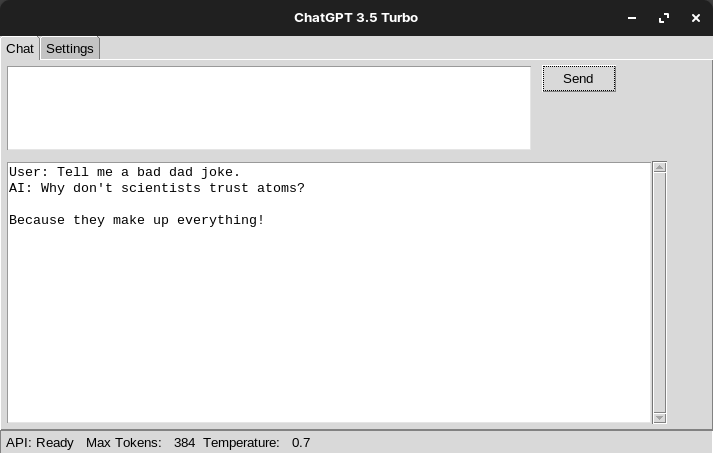
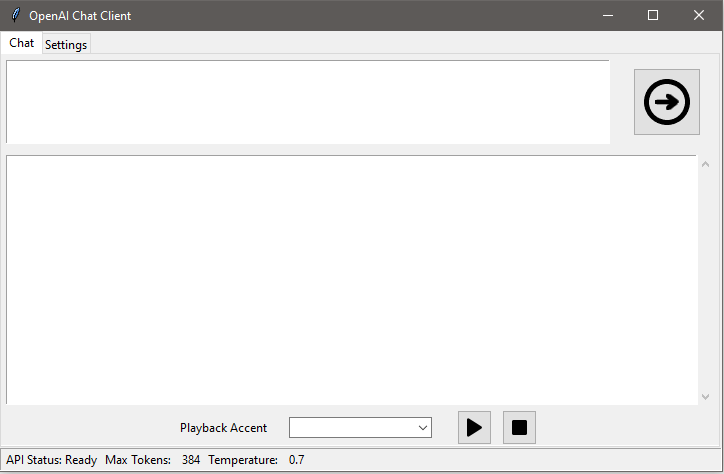
Updated buttons

Changed region(s): [[0.0, 0.0, 1.0, 1.0]]

diff --git a/script/chat.py b/script/chat.py
@@ -21,6 +21,7 @@ from tkinter import ttk
 import openai
 import gtts
 import pygame
+from PIL import Image, ImageTk
 from typing import List
 from gtts import gTTS
 
@@ -129,20 +130,18 @@ def a_select(event):
         language = "zh-TW"    
 
 # Create the main window
-
 window = tk.Tk()
 window.title("OpenAI Chat Client")
-#window.geometry("680x924")
-
 notebook = ttk.Notebook(window)
+
+
 tab1 = ttk.Frame(notebook)
 notebook.add(tab1, text=" Chat ")
-
-
 input_frame = ttk.Frame(tab1)
 input_frame.pack(side=tk.TOP, anchor="nw", pady=5)
+
 # Create a Text widget for user input
-input_text = tk.Text(input_frame, height=5, width=65)
+input_text = tk.Text(input_frame, height=5, width=75)
 input_text.pack(side=tk.LEFT, padx=5, pady=0)
 
 language="en"
@@ -155,13 +154,20 @@ accent_dd['values'] = ("English","Spanish","French","German","Korean","Japanese"
 accent_dd.bind("<<ComboboxSelected>>", a_select)
 accent_dd.pack(side=tk.LEFT, padx=20, pady=5)
 
-# Create a button
-button = ttk.Button(input_frame, text="Send", command=on_button_click)
-button.pack(side=tk.TOP, padx=5)
-trans = ttk.Button(input_frame, text="Play", command=playback_translation)
-trans.pack(side=tk.BOTTOM, padx=5)
-trans_stop = ttk.Button(input_frame, text="Stop", command=stop_playback)
-trans_stop.pack(side=tk.BOTTOM, padx=5)
+# Send, Play, Stop Buttons
+#ICONS
+submit_path = Image.open("../images/submit.png")
+submit_icon = ImageTk.PhotoImage(submit_path)
+play_path = Image.open("../images/play.png")
+play_icon = ImageTk.PhotoImage(play_path)
+stop_path = Image.open("../images/stop.png")
+stop_icon = ImageTk.PhotoImage(stop_path)
+button = ttk.Button(input_frame, image=submit_icon, command=on_button_click)
+button.pack(side=tk.TOP, padx=18, pady=9)
+trans = ttk.Button(accent_dd_fr, image=play_icon, command=playback_translation)
+trans.pack(side=tk.LEFT, padx=5)
+trans_stop = ttk.Button(accent_dd_fr, image=stop_icon, command=stop_playback)
+trans_stop.pack(side=tk.RIGHT, padx=5)
 accent_dd_fr.pack(side=tk.BOTTOM)
 
 # Create a Text widget for displaying conversation
